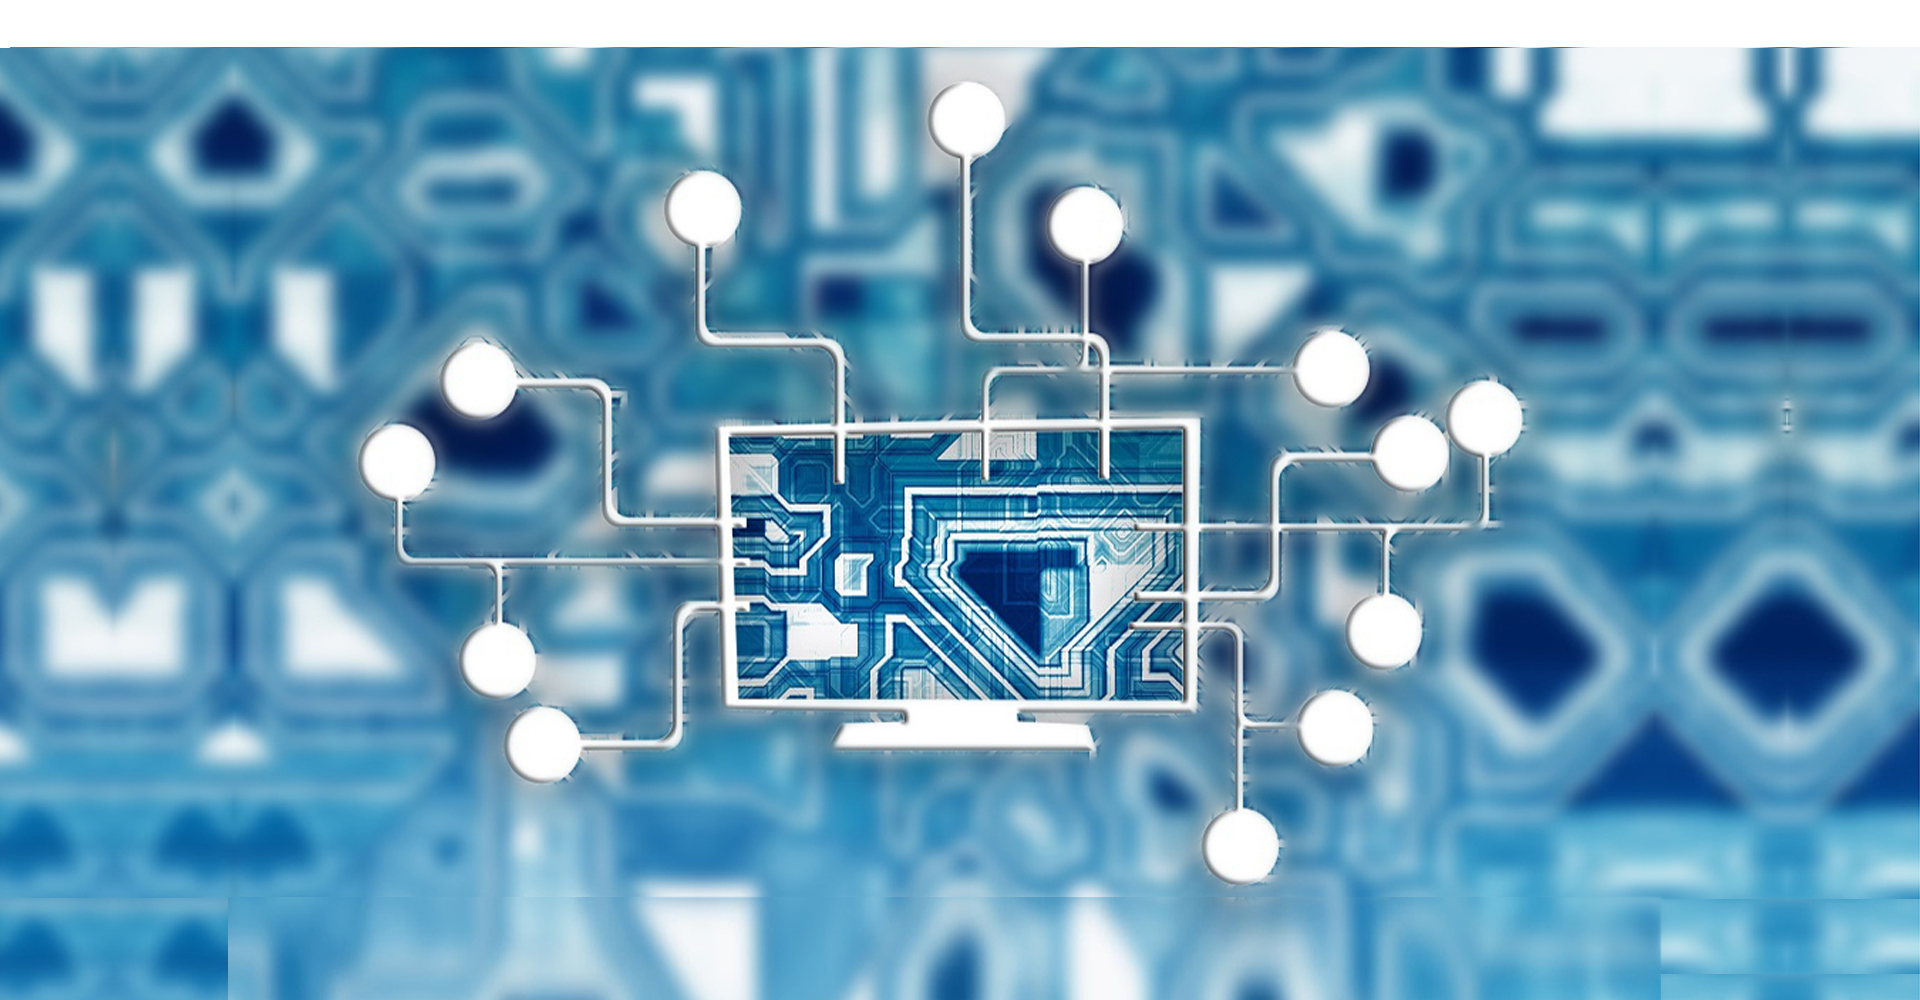
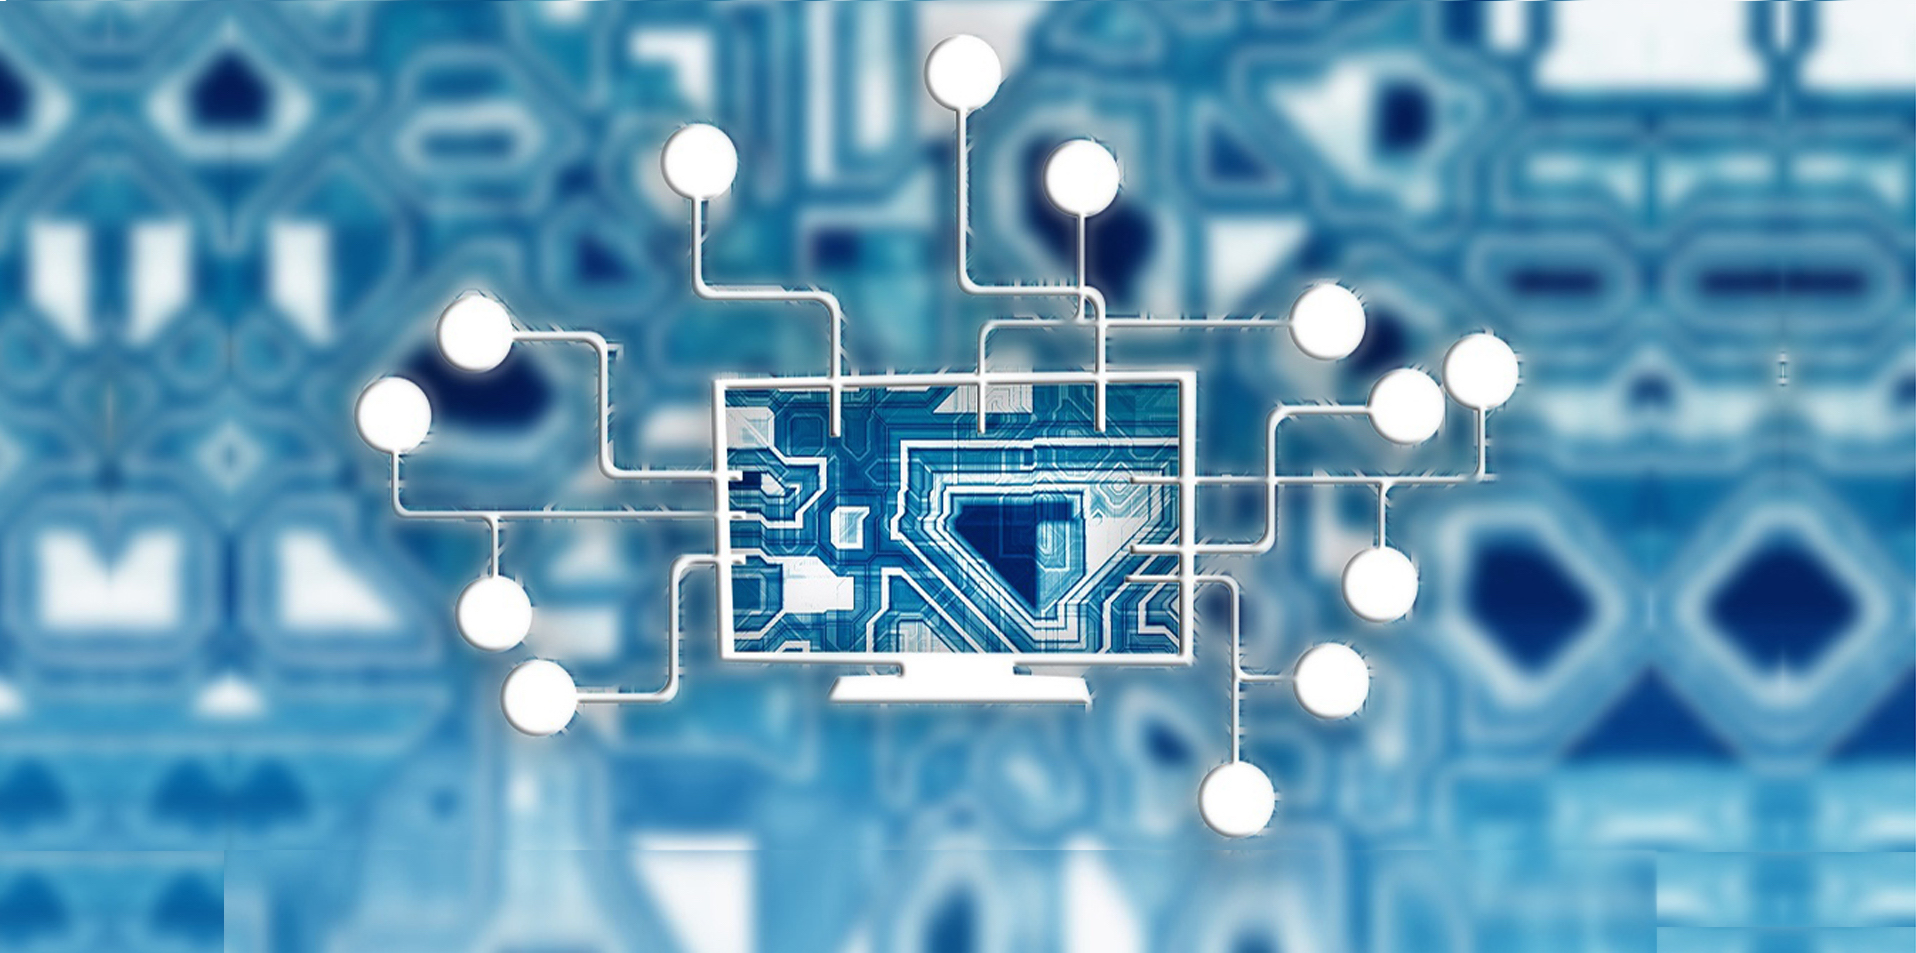
fixed some header responsiveness

diff --git a/resources/css/override.css b/resources/css/override.css
@@ -1,0 +1,49 @@
+/* responsive stuff */
+/* phones */
+@media (max-width: 768px) {
+	.hero-title h1 {
+		line-height: 1;
+	}
+}
+/* tablets */
+@media (min-width: 768px; max-width: 992px) {
+
+}
+/* desktop */
+@media (min-width: 992px) {
+
+}
+
+/* override styles */
+#hero-section {
+	background: none;
+	overflow: hidden;
+	position: relative;
+}
+#hero-section:after {
+	content: "";
+	background: url('../images/temp/hero-bg.jpg') no-repeat center center;
+	width: 100%;
+	height: 100%;
+	position: fixed;
+	z-index: -1;
+	left: 0;
+	top: 0;
+}
+section, footer {
+	z-index: 0;
+	background: #FFF;
+}
+.hero-header {
+	z-index: 0;
+	background: none;
+}
+.hero-title {
+	padding-top: 50px;
+}
+.hero-title h5 {
+	line-height: 1.5;
+}
+.hero-buttons {
+	margin-top: 85px;
+}

diff --git a/index.html b/index.html
@@ -51,6 +51,9 @@
 	<link rel="stylesheet" href="resources/css/owl.carousel/owl.theme.css">
 	<link rel="stylesheet" href="resources/css/owl.carousel/owl.transitions.css">
 
+	<!-- Override CSS file -->
+	<link rel="stylesheet" href="resources/css/override.css"> 
+
 	<!-- WARNING: Respond.js doesn't work if you view the page via file:// -->
   <!--[if lt IE 9]>
     <script src="https://oss.maxcdn.com/html5shiv/3.7.2/html5shiv.min.js"></script>
@@ -100,8 +103,8 @@
 		<!-- end header -->
 
 		<!-- Hero Section -->
-		<section> 
-			<div id="hero-section" data-stellar-background-ratio="0">
+		<section class="hero-header"> 
+			<div id="hero-section">
 				<div class="hero-content">
 					<div class="container-fluid">
 						<div class="row">
